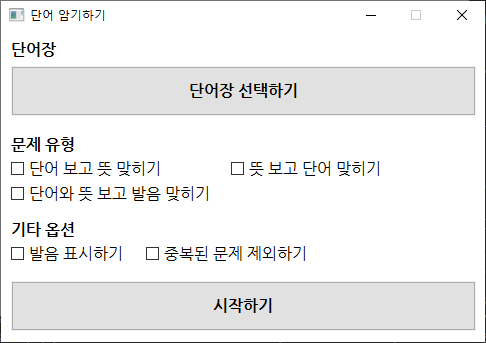
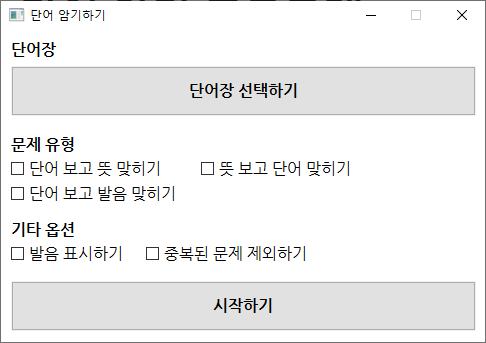
발음 암기 유형에서 뜻을 표시하지 않도록 변경

Changed region(s): [[0.0, 0.0, 1.0, 1.0], [0.4012, 0.4665, 0.8025, 0.5248], [0.1235, 0.5248, 0.4321, 0.5831]]

diff --git a/Version.h b/Version.h
@@ -7,7 +7,7 @@
 #include <WinSock2.h>
 #include <Windows.h>
 
-#define WR_APPLICATION_VERSION _T("1.3.0")
+#define WR_APPLICATION_VERSION _T("1.3.1")
 #define WR_ONLINE_MULTIPLAY_PROTOCOL_VERSION 1
 
 typedef struct {
